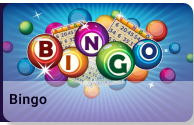
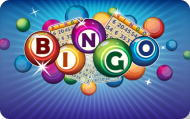
cards nuevas

diff --git a/tp2/index.html b/tp2/index.html
@@ -307,8 +307,15 @@
                             <img class="agregado" src="img/agregado.png">
                         </div>
                     </div>
+                </li>                
+                <li class="carruselLi">
+                    <div class="cardChica">
+                    <img src="img/cards/CarruselJuegos/4enLinePvsG.png">
+                    <div class="infocard">
+                        <p class="txtCardChica">4 en Linea"PerrosVsGatos"</p>
+                    </div>
+                    </div>                    
                 </li>
-                <li class="carruselLi"><img src="img/cards/CarruselJuegos/4 en linea p vs g.png"></li>
                 <li class="carruselLi">
                     <div class="cardChica">
                         <img src="img/cards/CarruselJuegos/roblox.png">
@@ -321,9 +328,17 @@
                         </div>
                     </div>
                 </li>
-                <li class="carruselLi"><img src="img/cards/CarruselJuegos/bingo.png"></li>
+                <li class="carruselLi">
+                    <div class="cardChica">
+                    <img src="img/cards/CarruselJuegos/bingo.png">
+                    <div class="infocard">
+                        <p class="txtCardChica">Bingo</p>
+                    </div>
+                    </div>                    
+                </li>
             </ul>
         </div>
+
         <div class="carruselMultijugador">
             <h1 >Multijugador</h1>
             <ul class="carruselUl">
@@ -336,16 +351,31 @@
                         </div>
                     </div>
                 </li>
-                <li class="carruselLi"><img src="img/cards/CarruselJuegos/sonic.png"></li>
-                <li class="carruselLi"><div class="cardChica">
+                <li class="carruselLi">
+                    <div class="cardChica">
+                    <img src="img/cards/CarruselJuegos/sonic.png">
+                    <div class="infocard">
+                        <p class="txtCardChica">Sonic</p>
+                    </div>
+                    </div>                    
+                </li>
+                <li class="carruselLi">
+                    <div class="cardChica">
                     <img src="img/cards/CarruselJuegos/Pou.png">
                     <img class="etiquetaGratis" src="img/Gratis.png">
                     <div class="infocard">
                         <p class="txtCardChica">Pou</p>
                     </div>
-                </div>                    
+                    </div>                    
                 </li>
-                <li class="carruselLi"><img src="img/cards/CarruselJuegos/4 en linea p vs g.png"></li>
+                <li class="carruselLi">
+                    <div class="cardChica">
+                    <img src="img/cards/CarruselJuegos/4enLinePvsG.png">
+                    <div class="infocard">
+                        <p class="txtCardChica">4 en Linea"PerrosVsGatos"</p>
+                    </div>
+                    </div>                    
+                </li>
                 <li class="carruselLi">
                     <div class="cardChica">
                         <img src="img/cards/CarruselJuegos/roblox.png">
@@ -357,8 +387,15 @@
                             <img class="carrito" src="img/carrito.png">
                         </div>
                     </div>
+                </li>                
+                <li class="carruselLi">
+                    <div class="cardChica">
+                    <img src="img/cards/CarruselJuegos/bingo.png">
+                    <div class="infocard">
+                        <p class="txtCardChica">Bingo</p>
+                    </div>
+                    </div>                    
                 </li>
-                <li class="carruselLi"><img src="img/cards/CarruselJuegos/bingo.png"></li>
                 <li class="carruselLi">
                     <div class="cardChica">
                         <img src="img/cards/CarruselJuegos/minecraft.png">
@@ -394,6 +431,7 @@
                 </li>
             </ul>
         </div>
+
         <div class="carruselDeportes">
             <h1 >Juegos de deportes</h1>
             <ul class="carruselUl">
@@ -406,7 +444,14 @@
                     </div>
                     </div>                    
                 </li>
-                <li class="carruselLi"> <img src="img/cards/CarruselJuegos/baskerball.png"> </li>
+                <li class="carruselLi">
+                    <div class="cardChica">
+                    <img src="img/cards/CarruselJuegos/basketball.png">
+                    <div class="infocard">
+                        <p class="txtCardChica">Basketball</p>
+                    </div>
+                    </div>                    
+                </li>
                 <li class="carruselLi">
                     <div class="cardChica">
                         <img src="img/cards/CarruselJuegos/goalkeeper.png">
@@ -428,7 +473,14 @@
                         </div>
                     </div>
                 </li>
-                <li class="carruselLi"><img src="img/cards/CarruselJuegos/voley.png"></li>
+                <li class="carruselLi">
+                    <div class="cardChica">
+                    <img src="img/cards/CarruselJuegos/voley.png">
+                    <div class="infocard">
+                        <p class="txtCardChica">Voley</p>
+                    </div>
+                    </div>                    
+                </li>
                 <li class="carruselLi">
                     <div class="cardChica">
                         <img src="img/cards/CarruselJuegos/tennismania.png">

diff --git a/tp2/css/style.css b/tp2/css/style.css
@@ -284,7 +284,7 @@ ul.carruselUl{
     white-space: nowrap;
     width: 113%;
     padding-left: 0%;
-    margin-top: 0%;
+    margin-top: 0.5%;
     margin-bottom: -2%;
 
 }
